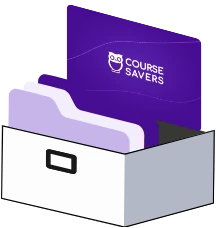
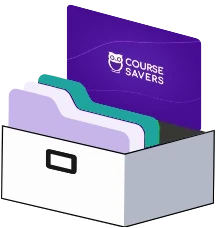
Home: teal back folder in the Course Savers box; add Throwback metric
The back folder matched the title card's purple and merged into it; it
now uses the Finances donut teal, like the thumbnail's top-right panel.

Changed region(s): [[0.1667, 0.307, 0.75, 0.6754]]

diff --git a/index.html b/index.html
@@ -290,7 +290,7 @@
             <p>A thorough case study on a mobile app from my bootcamp days that puts every course, its cost and the aid left to cover it in one place, so students borrow less.</p>
             <div class="case-study__rule"></div>
             <p class="case-study__metrics">
-              <span class="case-study__metrics-row"><span>Brain Station Boot Camp Wall of Fame</span><span>End-to-end UX process</span><span>iOS</span><span>Branding</span></span>
+              <span class="case-study__metrics-row"><span>Brain Station Boot Camp Wall of Fame</span><span>End-to-end UX process</span><span>iOS</span><span>Branding</span><span>Throwback</span></span>
             </p>
 
             <a class="case-study__cta hover-ease" href="case-studies/course-savers">
